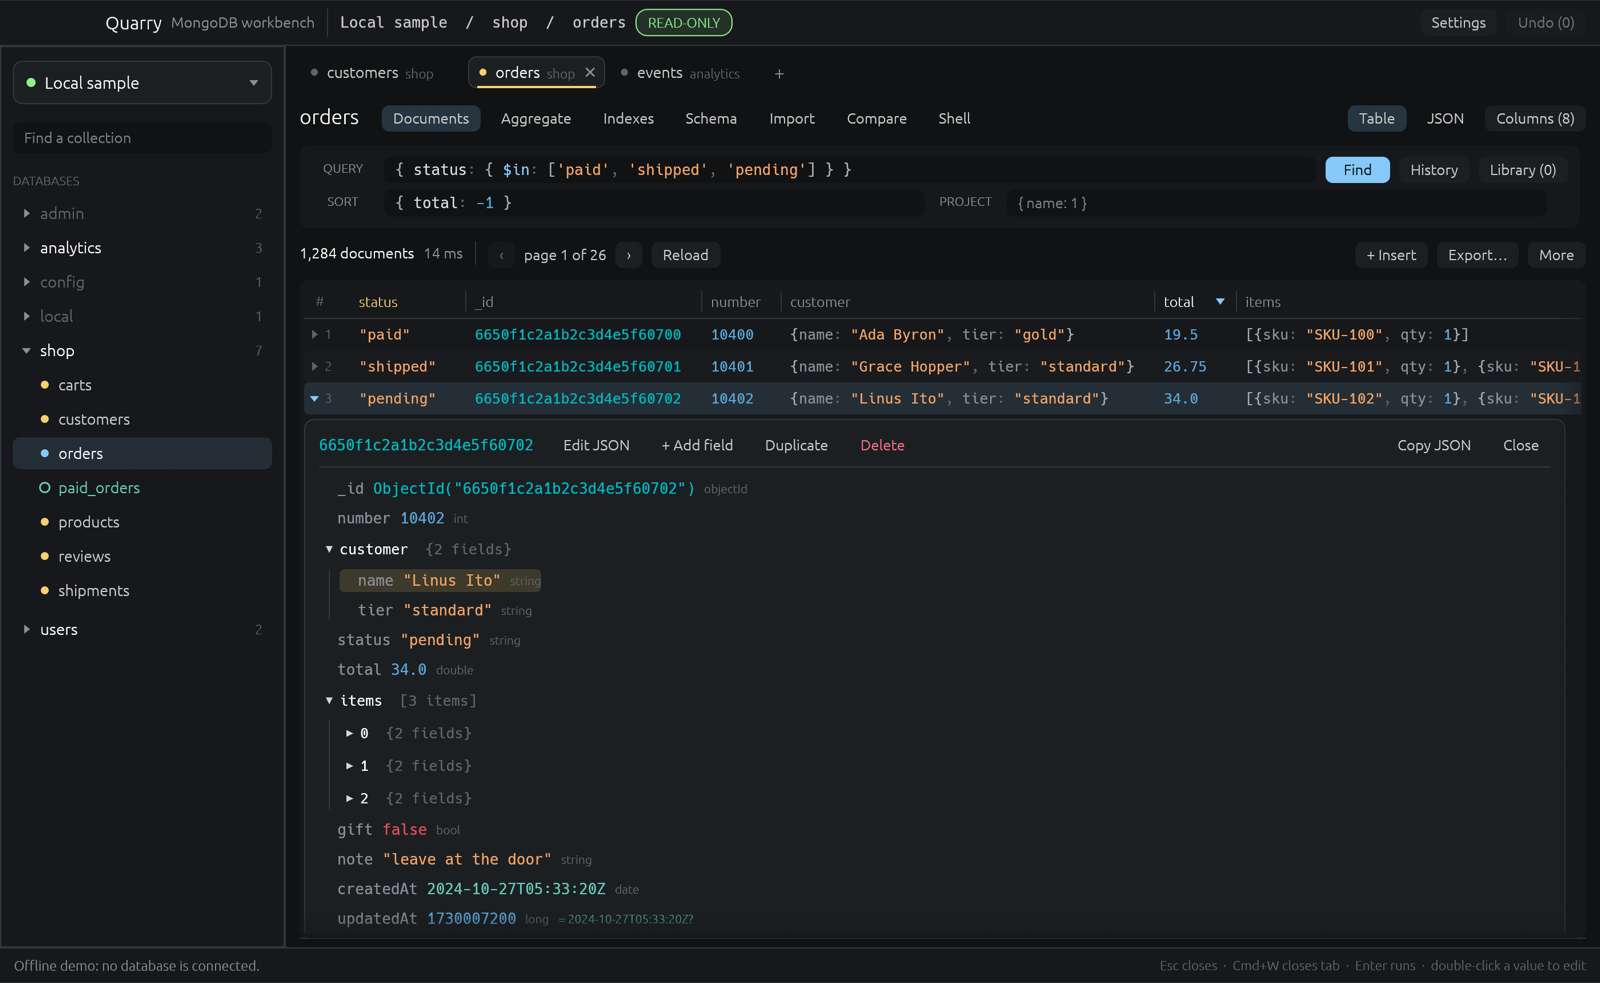
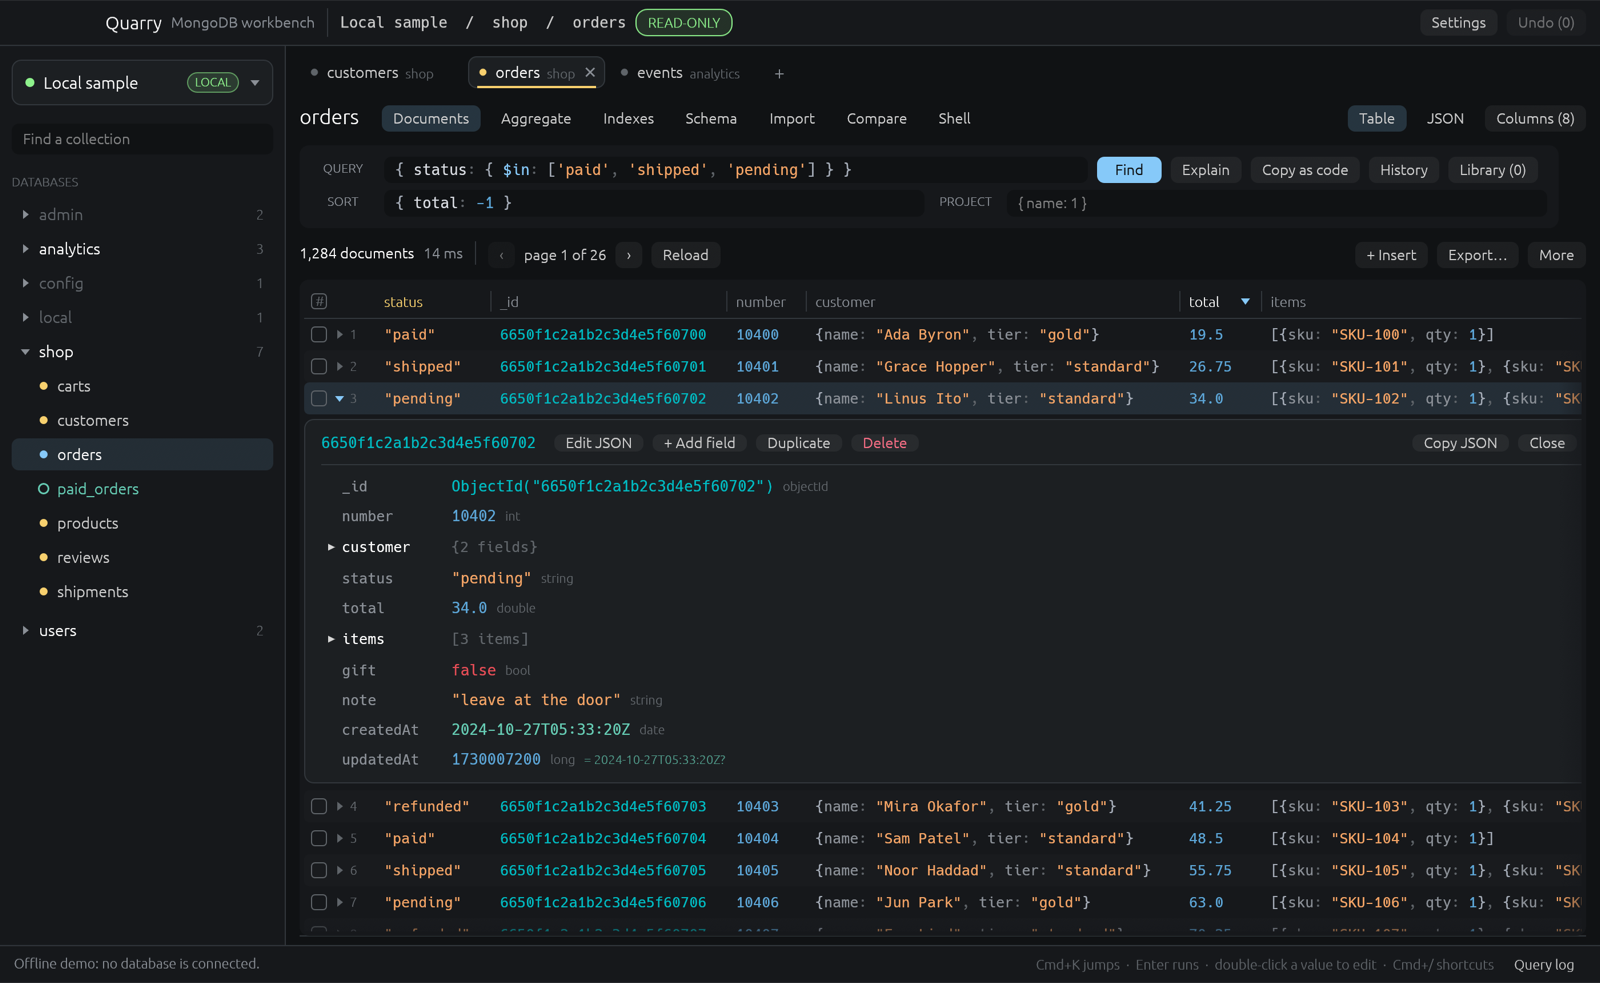
feat: tag connections and polish the connection picker and dialog
Connections can carry a tag such as Production, Staging or a custom
label, shown as a colored badge next to the connection in use and in
the picker. The picker lists each connection with its status, tag and
masked address, and the edit dialog gets wider fields and a URI that
wraps when shown. README screenshots are regenerated, with a new
aggregation pipeline view.

diff --git a/src/app.rs b/src/app.rs
@@ -136,6 +136,7 @@ fn tint(c: Color32, alpha: u8) -> Color32 {
     Color32::from_rgba_unmultiplied(c.r(), c.g(), c.b(), alpha)
 }
 const SIDEBAR_W: f32 = 250.0;
+const SIDE_ROW_H: f32 = 28.0;
 const HEADER_H: f32 = 40.0;
 const SYSTEM_DBS: [&str; 3] = ["admin", "config", "local"];
 /// Columns shown before the user picks their own; drawing every field of a wide collection is slow.
@@ -1110,6 +1111,9 @@ struct ConnMeta {
     /// Reach the server through a SOCKS5 proxy; its password lives in the Keychain.
     #[serde(default)]
     proxy: Option<db::Proxy>,
+    /// Environment label shown next to the name, such as Production.
+    #[serde(default)]
+    tag: String,
 }
 
 #[derive(PartialEq)]
@@ -1788,6 +1792,7 @@ fn stage_pipeline(stages: &[Stage], i: usize) -> db::Res<Vec<Document>> {
 struct ConnForm {
     id: Option<u64>,
     name: String,
+    tag: String,
     uri: String,
     show: bool,
     ssh_on: bool,
@@ -3759,7 +3764,7 @@ impl App {
             ("users".to_string(), colls(&["accounts", "profiles"])),
         ];
         self.conns.push(Conn {
-            meta: ConnMeta { id: 1, name: "Local sample".into(), ..Default::default() },
+            meta: ConnMeta { id: 1, name: "Local sample".into(), tag: "Local".into(), ..Default::default() },
             client: None,
             status: Status::Ready,
             writable: false,
@@ -3768,7 +3773,7 @@ impl App {
             tunnel: None,
         });
         self.conns.push(Conn {
-            meta: ConnMeta { id: 2, name: "Staging".into(), ..Default::default() },
+            meta: ConnMeta { id: 2, name: "Staging".into(), tag: "Staging".into(), ..Default::default() },
             client: None,
             status: Status::Idle,
             writable: false,
@@ -3802,6 +3807,7 @@ impl App {
             self.modal = Some(Modal::Conn(Box::new(ConnForm {
                 id: Some(2),
                 name: "Staging".into(),
+                tag: "Staging".into(),
                 uri: "mongodb://app:secret@10.0.3.12:27017/?replicaSet=rs0".into(),
                 ssh_on: true,
                 ssh: crate::ssh::SshConf { host: "bastion.example.com".into(), port: 22, user: "deploy".into(), auth: crate::ssh::SshAuth::KeyFile, key_path: "~/.ssh/id_ed25519".into(), legacy_rsa: false, known_host: Some("SHA256:3n9Yk0mF1q2hV7Qp6zXcR4tL8wE5sA0dJ2uB1nM7kPo".into()) },
@@ -4102,9 +4108,78 @@ fn stage_samples(ui: &mut egui::Ui, s: &mut Stage, i: usize, acts: &mut Vec<Stag
     });
 }
 
-fn pill(ui: &mut egui::Ui, text: &str, fg: Color32) -> egui::Response {
-    let bg = state_fill(ui, tint(fg, 30));
-    ui.add(egui::Button::new(RichText::new(text).color(fg).strong().size(12.0)).fill(bg).stroke(Stroke::new(1.0, fg)).corner_radius(10))
+/// A rounded label in `fg`, or muted with a plain border when off, as in one-of choices like connection tags.
+fn chip(ui: &mut egui::Ui, text: &str, fg: Color32, on: bool) -> egui::Response {
+    let (text_c, line, bg) = if on { (fg, fg, tint(fg, 30)) } else { (MUTED(), BORDER(), Color32::TRANSPARENT) };
+    let bg = state_fill(ui, bg);
+    ui.add(egui::Button::new(RichText::new(text).color(text_c).strong().size(12.0)).fill(bg).stroke(Stroke::new(1.0, line)).corner_radius(10))
+}
+
+/// Offered in the connection form; any other text is a custom tag.
+const TAG_PRESETS: [&str; 5] = ["Production", "Staging", "Development", "Internal", "Local"];
+
+/// Production is red so it is never mistaken for a scratch server. Only the first word counts,
+/// so custom tags like "Prod EU" keep their environment's color.
+fn tag_color(tag: &str) -> Color32 {
+    let t = tag.trim().to_ascii_lowercase();
+    match t.split(|c: char| !c.is_ascii_alphanumeric()).next().unwrap_or("") {
+        "production" | "prod" | "live" => ALERT(),
+        "staging" | "preprod" | "uat" => WARNING(),
+        "development" | "dev" | "local" | "test" => SUCCESS(),
+        "internal" => PRIMARY(),
+        _ => C_KEYWORD(),
+    }
+}
+
+fn status_color(s: &Status) -> Color32 {
+    match s {
+        Status::Ready => SUCCESS(),
+        Status::Connecting => WARNING(),
+        Status::Failed(_) => ALERT(),
+        Status::Idle => FAINT(),
+    }
+}
+
+/// One line of text cut with an ellipsis at `w`.
+fn truncated(p: &egui::Painter, text: &str, font: FontId, color: Color32, w: f32) -> std::sync::Arc<egui::Galley> {
+    let mut job = LayoutJob::simple_singleline(text.to_string(), font, color);
+    job.wrap = egui::text::TextWrapping::truncate_at_width(w.max(0.0));
+    p.layout_job(job)
+}
+
+/// Paints a tag badge at most `max_w` wide whose right edge is at `right`, and returns its left edge.
+fn paint_tag(p: &egui::Painter, right: f32, cy: f32, tag: &str, max_w: f32) -> f32 {
+    let c = tag_color(tag);
+    let g = truncated(p, &tag.to_uppercase(), FontId::proportional(10.5), c, (max_w - 14.0).min(140.0));
+    let r = egui::Rect::from_min_max(egui::pos2(right - g.size().x - 14.0, cy - 9.0), egui::pos2(right, cy + 9.0));
+    p.rect(r, 9, tint(c, 34), Stroke::new(1.0, tint(c, 150)), egui::StrokeKind::Inside);
+    p.galley(egui::pos2(r.left() + 7.0, cy - g.size().y / 2.0), g, c);
+    r.left()
+}
+
+/// `name` cut to fit before its tag badge, both centered on `cy` within `x`.
+fn paint_name_tag(p: &egui::Painter, x: egui::Rangef, cy: f32, name: &str, font: FontId, color: Color32, tag: &str) {
+    let name_right = if tag.is_empty() { x.max } else { paint_tag(p, x.max, cy, tag, x.span() * 0.4) - 8.0 };
+    let g = truncated(p, name, font, color, name_right - x.min);
+    p.galley(egui::pos2(x.min, cy - g.size().y / 2.0), g, color);
+}
+
+/// Typing "none" means no tag, the same as the None chip.
+fn clean_tag(tag: &str) -> &str {
+    let t = tag.trim();
+    if t.eq_ignore_ascii_case("none") { "" } else { t }
+}
+
+/// A saved connection in the picker: status, name and tag, then the masked address.
+fn conn_row(ui: &mut egui::Ui, c: &Conn, active: bool) -> egui::Response {
+    side_row(ui, 48.0, 4.0, active, |p, r| {
+        let (left, right, top) = (r.left(), r.right() - 2.0, r.top() + 17.0);
+        p.circle_filled(egui::pos2(left + 3.5, top), 3.5, status_color(&c.status));
+        paint_name_tag(p, egui::Rangef::new(left + 16.0, right), top, &c.meta.name, FontId::proportional(13.5), if active { BRIGHT() } else { TEXT() }, &c.meta.tag);
+        let uri = if c.masked_uri.is_empty() { "no address saved" } else { &c.masked_uri };
+        let addr = truncated(p, uri, FontId::monospace(11.0), FAINT(), right - left - 16.0);
+        p.galley(egui::pos2(left + 16.0, r.top() + 34.0 - addr.size().y / 2.0), addr, FAINT());
+    })
 }
 
 /// `c` moved by `t` away from its own lightness: toward white barely changes an already light color.
@@ -4323,8 +4398,8 @@ fn row_job(d: &Document, width: f32) -> LayoutJob {
 }
 
 /// One clickable sidebar row painted by hand, so it reads as a list rather than a form.
-fn side_row(ui: &mut egui::Ui, indent: f32, active: bool, paint: impl FnOnce(&egui::Painter, egui::Rect)) -> egui::Response {
-    let (rect, resp) = ui.allocate_exact_size(egui::vec2(ui.available_width(), 28.0), Sense::click());
+fn side_row(ui: &mut egui::Ui, height: f32, indent: f32, active: bool, paint: impl FnOnce(&egui::Painter, egui::Rect)) -> egui::Response {
+    let (rect, resp) = ui.allocate_exact_size(egui::vec2(ui.available_width(), height), Sense::click());
     let fill = if resp.is_pointer_button_down_on() {
         tint(PRIMARY(), 45)
     } else if active {
@@ -4897,13 +4972,13 @@ impl App {
                     if self.prefs.always_writable {
                         // No lock to toggle: writes are always on.
                     } else if writable {
-                        if pill(ui, "WRITES ON", ALERT()).on_hover_text("Click to lock this connection again").clicked() {
+                        if chip(ui, "WRITES ON", ALERT(), true).on_hover_text("Click to lock this connection again").clicked() {
                             if let Some(c) = self.conns.iter_mut().find(|c| c.meta.id == s.conn) {
                                 c.writable = false;
                             }
                             self.ok("Writes locked");
                         }
-                    } else if pill(ui, "READ-ONLY", SUCCESS()).on_hover_text("Click to allow edits on this connection for this session").clicked() {
+                    } else if chip(ui, "READ-ONLY", SUCCESS(), true).on_hover_text("Click to allow edits on this connection for this session").clicked() {
                         self.modal = Some(Modal::Unlock(s.conn, None));
                     }
                 }
@@ -5099,25 +5174,17 @@ impl App {
 
     fn conn_picker(&mut self, ui: &mut egui::Ui) {
         let cur = self.active.and_then(|id| self.conn(id));
-        let (name, dot) = match cur {
-            Some(c) => (
-                c.meta.name.clone(),
-                match c.status {
-                    Status::Ready => SUCCESS(),
-                    Status::Connecting => WARNING(),
-                    Status::Failed(_) => ALERT(),
-                    Status::Idle => FAINT(),
-                },
-            ),
-            None => ("Add a connection".to_string(), FAINT()),
+        let (name, tag, dot) = match cur {
+            Some(c) => (c.meta.name.clone(), c.meta.tag.clone(), status_color(&c.status)),
+            None => ("Add a connection".to_string(), String::new(), FAINT()),
         };
-        let (rect, resp) = ui.allocate_exact_size(egui::vec2(ui.available_width(), 38.0), Sense::click());
+        let (rect, resp) = ui.allocate_exact_size(egui::vec2(ui.available_width(), 40.0), Sense::click());
         let p = ui.painter();
         let fill = if resp.is_pointer_button_down_on() { shade(HOVER(), 0.08) } else if resp.hovered() { HOVER() } else { RAISED() };
         p.rect(rect, 8, fill, Stroke::new(1.0, BORDER()), egui::StrokeKind::Inside);
         p.circle_filled(egui::pos2(rect.left() + 16.0, rect.center().y), 4.0, dot);
-        p.text(egui::pos2(rect.left() + 28.0, rect.center().y), egui::Align2::LEFT_CENTER, &name, FontId::proportional(14.5), BRIGHT());
         chevron(p, egui::pos2(rect.right() - 16.0, rect.center().y), true, MUTED());
+        paint_name_tag(p, egui::Rangef::new(rect.left() + 28.0, rect.right() - 30.0), rect.center().y, &name, FontId::proportional(14.5), BRIGHT(), &tag);
         let resp = resp.on_hover_cursor(egui::CursorIcon::PointingHand);
         if cur.is_none() && resp.clicked() {
             return self.new_conn_modal();
@@ -5127,15 +5194,24 @@ impl App {
         let mut remove = None;
         let mut edit = None;
         let mut refresh = None;
-        egui::Popup::menu(&resp).width(rect.width()).show(|ui| {
+        egui::Popup::menu(&resp).width(rect.width().max(320.0)).show(|ui| {
+            ui.spacing_mut().item_spacing.y = 2.0;
+            ui.spacing_mut().button_padding = egui::vec2(10.0, 6.0);
+            ui.add_space(4.0);
+            ui.horizontal(|ui| {
+                ui.add_space(10.0);
+                ui.label(RichText::new("CONNECTIONS").size(11.0).strong().color(FAINT()));
+            });
+            ui.add_space(2.0);
             for c in &self.conns {
-                let label = format!("{}   {}", c.meta.name, c.masked_uri);
-                if ui.selectable_label(Some(c.meta.id) == self.active, RichText::new(label).color(TEXT())).clicked() {
+                if conn_row(ui, c, Some(c.meta.id) == self.active).clicked() {
                     pick = Some(c.meta.id);
                 }
             }
+            ui.add_space(4.0);
             ui.separator();
-            if ui.button("+ New connection…").clicked() {
+            ui.add_space(2.0);
+            if ui.button("+  New connection…").clicked() {
                 new = true;
             }
             if let Some(c) = cur {
@@ -5145,10 +5221,14 @@ impl App {
                 if ui.button("Refresh databases").on_hover_text("Reconnect and reload the list of databases and collections").clicked() {
                     refresh = Some(c.meta.id);
                 }
+                ui.add_space(2.0);
+                ui.separator();
+                ui.add_space(2.0);
                 if ui.button(RichText::new(format!("Remove \"{}\"…", c.meta.name)).color(ALERT())).clicked() {
                     remove = Some((c.meta.id, c.meta.name.clone()));
                 }
             }
+            ui.add_space(2.0);
         });
         if let Some(id) = edit {
             if let Some(meta) = self.conn(id).map(|c| c.meta.clone()) {
@@ -5169,6 +5249,7 @@ impl App {
                 self.modal = Some(Modal::Conn(Box::new(ConnForm {
                     id: Some(id),
                     name: meta.name.clone(),
+                    tag: meta.tag.clone(),
                     uri,
                     ssh_on: meta.ssh.is_some(),
                     ssh: meta.ssh.clone().unwrap_or_default(),
@@ -5268,7 +5349,7 @@ impl App {
                 let is_open = !filter.is_empty() || self.open_dbs.contains(&(id, db_name.clone()));
                 let dim = SYSTEM_DBS.contains(&db_name.as_str());
                 let count = colls.as_ref().map(|v| v.len().to_string()).unwrap_or_else(|| "…".into());
-                let r = side_row(ui, 0.0, false, |p, r| {
+                let r = side_row(ui, SIDE_ROW_H, 0.0, false, |p, r| {
                     chevron(p, egui::pos2(r.left() + 4.0, r.center().y), is_open, MUTED());
                     p.text(egui::pos2(r.left() + 16.0, r.center().y), egui::Align2::LEFT_CENTER, db_name, FontId::proportional(14.0), if dim { FAINT() } else { BRIGHT() });
                     p.text(egui::pos2(r.right(), r.center().y), egui::Align2::RIGHT_CENTER, &count, FontId::proportional(12.0), FAINT());
@@ -5314,7 +5395,7 @@ impl App {
                         let sel = Sel { conn: id, db: db_name.clone(), coll: coll.clone() };
                         let active = cur_sel.as_ref() == Some(&sel);
                         let is_view = self.views.contains(&(id, db_name.clone(), coll.clone()));
-                        let r = side_row(ui, 16.0, active, |p, r| {
+                        let r = side_row(ui, SIDE_ROW_H, 16.0, active, |p, r| {
                             let c = egui::pos2(r.left() + 4.0, r.center().y);
                             if is_view {
                                 // Views get a hollow marker so they read as derived data.
@@ -7440,7 +7521,7 @@ impl App {
                 ui.horizontal_wrapped(|ui| {
                     for (i, l) in labels.iter().enumerate() {
                         let fg = if t.agg_stage == Some(i) { PRIMARY() } else { MUTED() };
-                        if pill(ui, &format!("{} {l}", i + 1), fg).on_hover_text("Preview the output after this stage").clicked() {
+                        if chip(ui, &format!("{} {l}", i + 1), fg, true).on_hover_text("Preview the output after this stage").clicked() {
                             stage = Some(i);
                         }
                     }
@@ -8145,10 +8226,10 @@ impl App {
                         let recent = s.since.is_some_and(|t| now - t < 7 * 24 * 3600 * 1000);
                         ui.label(RichText::new(format!("{} ops{}", group(&s.ops.to_string()), if s.ops == 0 && recent { ", since restart" } else { "" })).monospace().color(MUTED()));
                         if name != "_id_" && db::is_unused(s.ops, s.since, now) {
-                            pill(ui, "unused", WARNING());
+                            chip(ui, "unused", WARNING(), true);
                         }
                         if s.hidden {
-                            pill(ui, "hidden", PRIMARY());
+                            chip(ui, "hidden", PRIMARY(), true);
                         }
                     });
                     ui.label(RichText::new(stat.and_then(|s| s.size).map(human_bytes).unwrap_or_default()).monospace().color(MUTED()));
@@ -8322,21 +8403,44 @@ impl App {
                 Modal::Conn(f) => {
                     let mut save = false;
                     let mut test = false;
-                    ui.set_width(560.0);
+                    ui.set_width(600.0);
                     dialog_title(ui, if f.id.is_some() { "Edit connection" } else { "New connection" });
                     ui.label(RichText::new("Addresses, passwords and passphrases are stored in the macOS Keychain. The connection opens read-only.").size(12.0).color(MUTED()));
                     ui.add_space(8.0);
                     egui::ScrollArea::vertical().max_height(ctx.content_rect().height() - 220.0).show(ui, |ui| {
                         settings_section(ui, "SERVER", |ui| {
-                            egui::Grid::new("cf").num_columns(2).spacing([10.0, 8.0]).show(ui, |ui| {
+                            // Grid cells do not know their width on the first frame, so size fields from the section.
+                            let field_w = ui.available_width() - 64.0;
+                            egui::Grid::new("cf").num_columns(2).spacing([14.0, 12.0]).show(ui, |ui| {
                                 ui.label("Name");
-                                ui.add(egui::TextEdit::singleline(&mut f.name).hint_text("Production cluster").desired_width(400.0));
+                                ui.add(egui::TextEdit::singleline(&mut f.name).hint_text("Production cluster").desired_width(field_w).margin(egui::Margin::symmetric(8, 5)));
+                                ui.end_row();
+                                ui.label("Tag");
+                                ui.vertical(|ui| {
+                                    ui.horizontal_wrapped(|ui| {
+                                        ui.spacing_mut().item_spacing.x = 6.0;
+                                        for t in std::iter::once("").chain(TAG_PRESETS) {
+                                            let c = if t.is_empty() { MUTED() } else { tag_color(t) };
+                                            if chip(ui, if t.is_empty() { "None" } else { t }, c, clean_tag(&f.tag).eq_ignore_ascii_case(t)).clicked() {
+                                                f.tag = t.to_string();
+                                            }
+                                        }
+                                    });
+                                    ui.add_space(4.0);
+                                    ui.add(egui::TextEdit::singleline(&mut f.tag).hint_text("or type a custom tag").char_limit(24).desired_width(220.0).margin(egui::Margin::symmetric(8, 5)));
+                                });
                                 ui.end_row();
                                 ui.label("URI");
-                                ui.add(egui::TextEdit::singleline(&mut f.uri).password(!f.show).font(FontId::monospace(13.0)).desired_width(400.0));
-                                ui.end_row();
-                                ui.label("");
-                                ui.checkbox(&mut f.show, "Show address");
+                                ui.vertical(|ui| {
+                                    let edit = if f.show { egui::TextEdit::multiline(&mut f.uri).desired_rows(3).return_key(None) } else { egui::TextEdit::singleline(&mut f.uri).password(true) };
+                                    ui.add(edit.font(FontId::monospace(13.0)).hint_text("mongodb+srv://user:password@host/").desired_width(field_w).margin(egui::Margin::symmetric(8, 6)));
+                                    // Wrapping is only visual; a pasted newline would break the URI.
+                                    if f.show {
+                                        f.uri.retain(|c| c != '\n' && c != '\r');
+                                    }
+                                    ui.add_space(2.0);
+                                    ui.checkbox(&mut f.show, "Show address");
+                                });
                                 ui.end_row();
                             });
                         });
@@ -8473,6 +8577,7 @@ impl App {
                                 let meta = ConnMeta {
                                     id,
                                     name: f.name.trim().into(),
+                                    tag: clean_tag(&f.tag).into(),
                                     ssh: f.ssh_on.then(|| crate::ssh::SshConf { host: f.ssh.host.trim().into(), user: f.ssh.user.trim().into(), ..f.ssh.clone() }),
                                     proxy: (f.proxy_on && !f.ssh_on).then(|| db::Proxy { host: f.proxy.host.trim().into(), password: None, ..f.proxy.clone() }),
                                 };

diff --git a/README.md b/README.md
@@ -20,12 +20,13 @@
 - **Shell**: JavaScript run by [Bun](https://bun.sh) with the official MongoDB driver, npm packages, autocomplete, and results shown as a table.
 - **Data relations**: shows a preview next to referenced ids and jumps to the referenced document. Relations can be found automatically.
 - **Compare and sync** two collections, **dump and restore** with the MongoDB Database Tools (Quarry installs and updates them if they are missing), and **users and roles**.
-- **SSH tunnels** (password, key file or agent) and **SOCKS5 proxies**. Secrets are kept in the system keychain (macOS Keychain, Windows Credential Manager, or the Secret Service on Linux). Quarry reconnects to the last used connection at launch.
+- **SSH tunnels** (password, key file or agent) and **SOCKS5 proxies**. Secrets are kept in the system keychain (macOS Keychain, Windows Credential Manager, or the Secret Service on Linux). Quarry reconnects to the last used connection at launch. Tag connections as Production, Staging or your own label so the one in use is always clear.
 
 | | |
 |---|---|
 | ![Editing a document](docs/edit.png) | ![Shell](docs/shell.png) |
 | ![Schema](docs/schema.png) | ![Compare and sync](docs/compare.png) |
+| ![Aggregation pipeline with a preview after each stage](docs/aggregate.png) | ![Connection with a tag and an SSH tunnel](docs/connection.png) |
 
 ## Install
 
